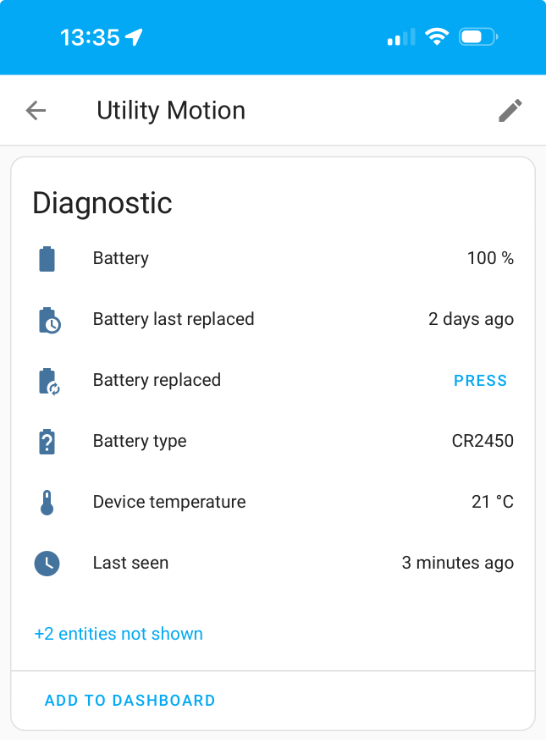
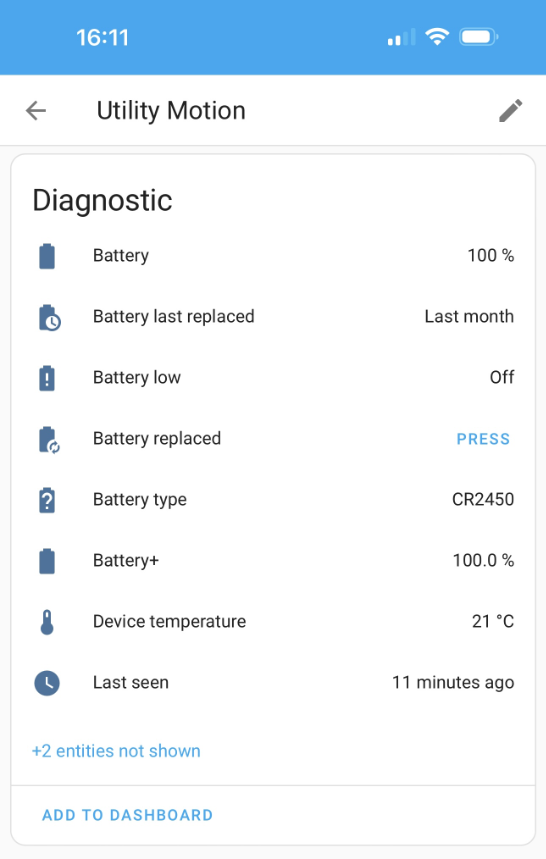
Remove beta (#715)

diff --git a/docs/configuration.md b/docs/configuration.md
@@ -19,9 +19,9 @@ Name | Type | Requirement | Default | Description |
 enable_autodiscovery | Boolean | Optional | True | If set to true will automatically match devices against the library and create a setup flow within the integrations page. |
 show_all_devices | Boolean | Optional | False | If set to true will show all devices in the manual add dropdown, rather than just those with batteries. |
 enable_replaced | Boolean | Optional | True | If set to false new devices added to battery notes will have the battery replaced sensor and button disabled.  Any devices you have previously added to Battery Notes you will have to disable these sensors manually, which also means you can enable specific sensors of important ones you want to track. |
-default_battery_low_threshold (Beta Only)| Int | Optional | 10 | The default threshold where a devices battery_low entity is set to true and the battery_notes_battery_threshold event is fired, can be overriden per device in device configuration. |
-battery_increase_threshold (Beta Only) | Int | Optional | 25 | The threshold where the battery_notes_battery_increased event is fired, use this event for battery replaced automations. The threshold is the difference in increase between previous and current battery level. |
-hide_battery (Beta Only)| Boolean | Optional | False | Hide the standard battery when adding Battery+. This will not effect existing dashboards, automations etc.|
+default_battery_low_threshold | Int | Optional | 10 | The default threshold where a devices battery_low entity is set to true and the battery_notes_battery_threshold event is fired, can be overriden per device in device configuration. |
+battery_increase_threshold | Int | Optional | 25 | The threshold where the battery_notes_battery_increased event is fired, use this event for battery replaced automations. The threshold is the difference in increase between previous and current battery level. |
+hide_battery | Boolean | Optional | False | Hide the standard battery when adding Battery+. This will not effect existing dashboards, automations etc.|
 user_library | String | Optional |  | If specified then a user library file will be searched prior to the main library, the user library must be in the same format as the library and placed in the same folder. Only really used for dev purposes. |
 
 # Debug Logging

diff --git a/docs/community.md b/docs/community.md
@@ -2,8 +2,7 @@
 
 ## UI
 
-### Battery State Card (Beta Only)
-
+### Battery State Card
 Using the excellent [Battery State Card](https://github.com/maxwroc/battery-state-card) by maxwroc you can easily display devices with their batteries required where the devices battery threshold indicates it's low and show be replaced.
 
 ```yaml
@@ -25,8 +24,7 @@ sort:
 
 ## Automations
 
-### Battery Low Notification (Beta Only)
-
+### Battery Low Notification
 Raise a persistent notification when a battery is low, dismiss when it's not low
 
 ```yaml
@@ -74,8 +72,7 @@ action:
 mode: queued
 ```
 
-### Battery Replaced (Beta Only)
-
+### Battery Replaced
 Mark a battery as replaced when there is an increase in battery level.
 
 ```yaml
@@ -107,16 +104,14 @@ action:
 
 [Blueprints](https://www.home-assistant.io/docs/automation/using_blueprints/) are an excellent way to get you up and running with the integration quickly. They can also be used as a guide for setting up new automations which you can tailor to your needs. 
 
-### Battery Threshold (Beta Only)
-
+### Battery Threshold
 [Install blueprint](https://my.home-assistant.io/redirect/blueprint_import/?blueprint_url=https%3A%2F%2Fraw.githubusercontent.com%2Fandrew-codechimp%2FHA-Battery-Notes%2Fmain%2Fdocs%2Fblueprints%2Fbattery_notes_battery_threshold.yaml) | [Source](./blueprints/battery_notes_battery_threshold.yaml)
 
 This blueprint will allow notifications to be raised and/or custom actions to be performed when the battery threshold is met.
 It is extended from the example Battery Low Notification automation yaml above for those who'd prefer an easy way to get started.
 
 
-### Battery Replaced (Beta Only)
-
+### Battery Replaced
 [Install blueprint](https://my.home-assistant.io/redirect/blueprint_import/?blueprint_url=https%3A%2F%2Fraw.githubusercontent.com%2Fandrew-codechimp%2FHA-Battery-Notes%2Fmain%2Fdocs%2Fblueprints%2Fbattery_notes_battery_replaced.yaml) | [Source](./blueprints/battery_notes_battery_replaced.yaml)
 
 This blueprint will automatically update the battery replaced sensor and custom actions to be performed when the battery increases.

diff --git a/docs/events.md b/docs/events.md
@@ -2,8 +2,7 @@
 
 The following events are raised by the integration. These events can be used within automations.
 
-## Battery Threshold (Beta Only)
-
+## Battery Threshold
 `battery_notes_battery_threshold`
 
 This is fired when any device within Battery Notes has a battery level changed to either below or above the device specific or global threshold.
@@ -70,8 +69,7 @@ action:
 mode: queued
 ```
 
-## Battery Increased (Beta Only)
-
+## Battery Increased
 `battery_notes_battery_increased`
 
 This is fired when any device within Battery Notes has a battery level increased above the battery_increase_threshold (default 25%) if not changed within [configuration setting](./configuration.md).

diff --git a/docs/index.md b/docs/index.md
@@ -1,7 +1,7 @@
 # Battery Notes for Home Assistant
 
 Integration to add battery notes to a device, with automatic discovery via a growing [battery library](https://github.com/andrew-codechimp/HA-Battery-Notes/blob/main/library.md) for devices.  
-Track the battery type, when the battery was replaced and also when a battery is low based on device or global thresholds (battery low in beta).  
+Track the battery type, when the battery was replaced and also when a battery is low based on device or global thresholds.  
 
 *Please :star: this repo on [GitHub](https://github.com/andrew-codechimp/HA-Battery-Notes) if you find it useful*  
 *If you want to show your support please*

diff --git a/docs/entities.md b/docs/entities.md
@@ -2,7 +2,7 @@
 
 You'll get the following entities for each device you have added to battery notes.
 
-## Battery+ (Beta Only)
+## Battery+
 `sensor.{{device_name}}_battery_plus`
 
 An enhanced battery sensor that duplicates the normal battery but with additional attributes specific to battery notes.  
@@ -40,7 +40,7 @@ The last time the battery of the device was replaced.
 
 A button to set the battery_last_replaced entity to now.
 
-## Battery Low (Beta Only)
+## Battery Low
 `sensor.{{device_name}}_battery_low`
 
 A boolean sensor indicating if the battery is low, true when the battery is below the device or global threshold.
